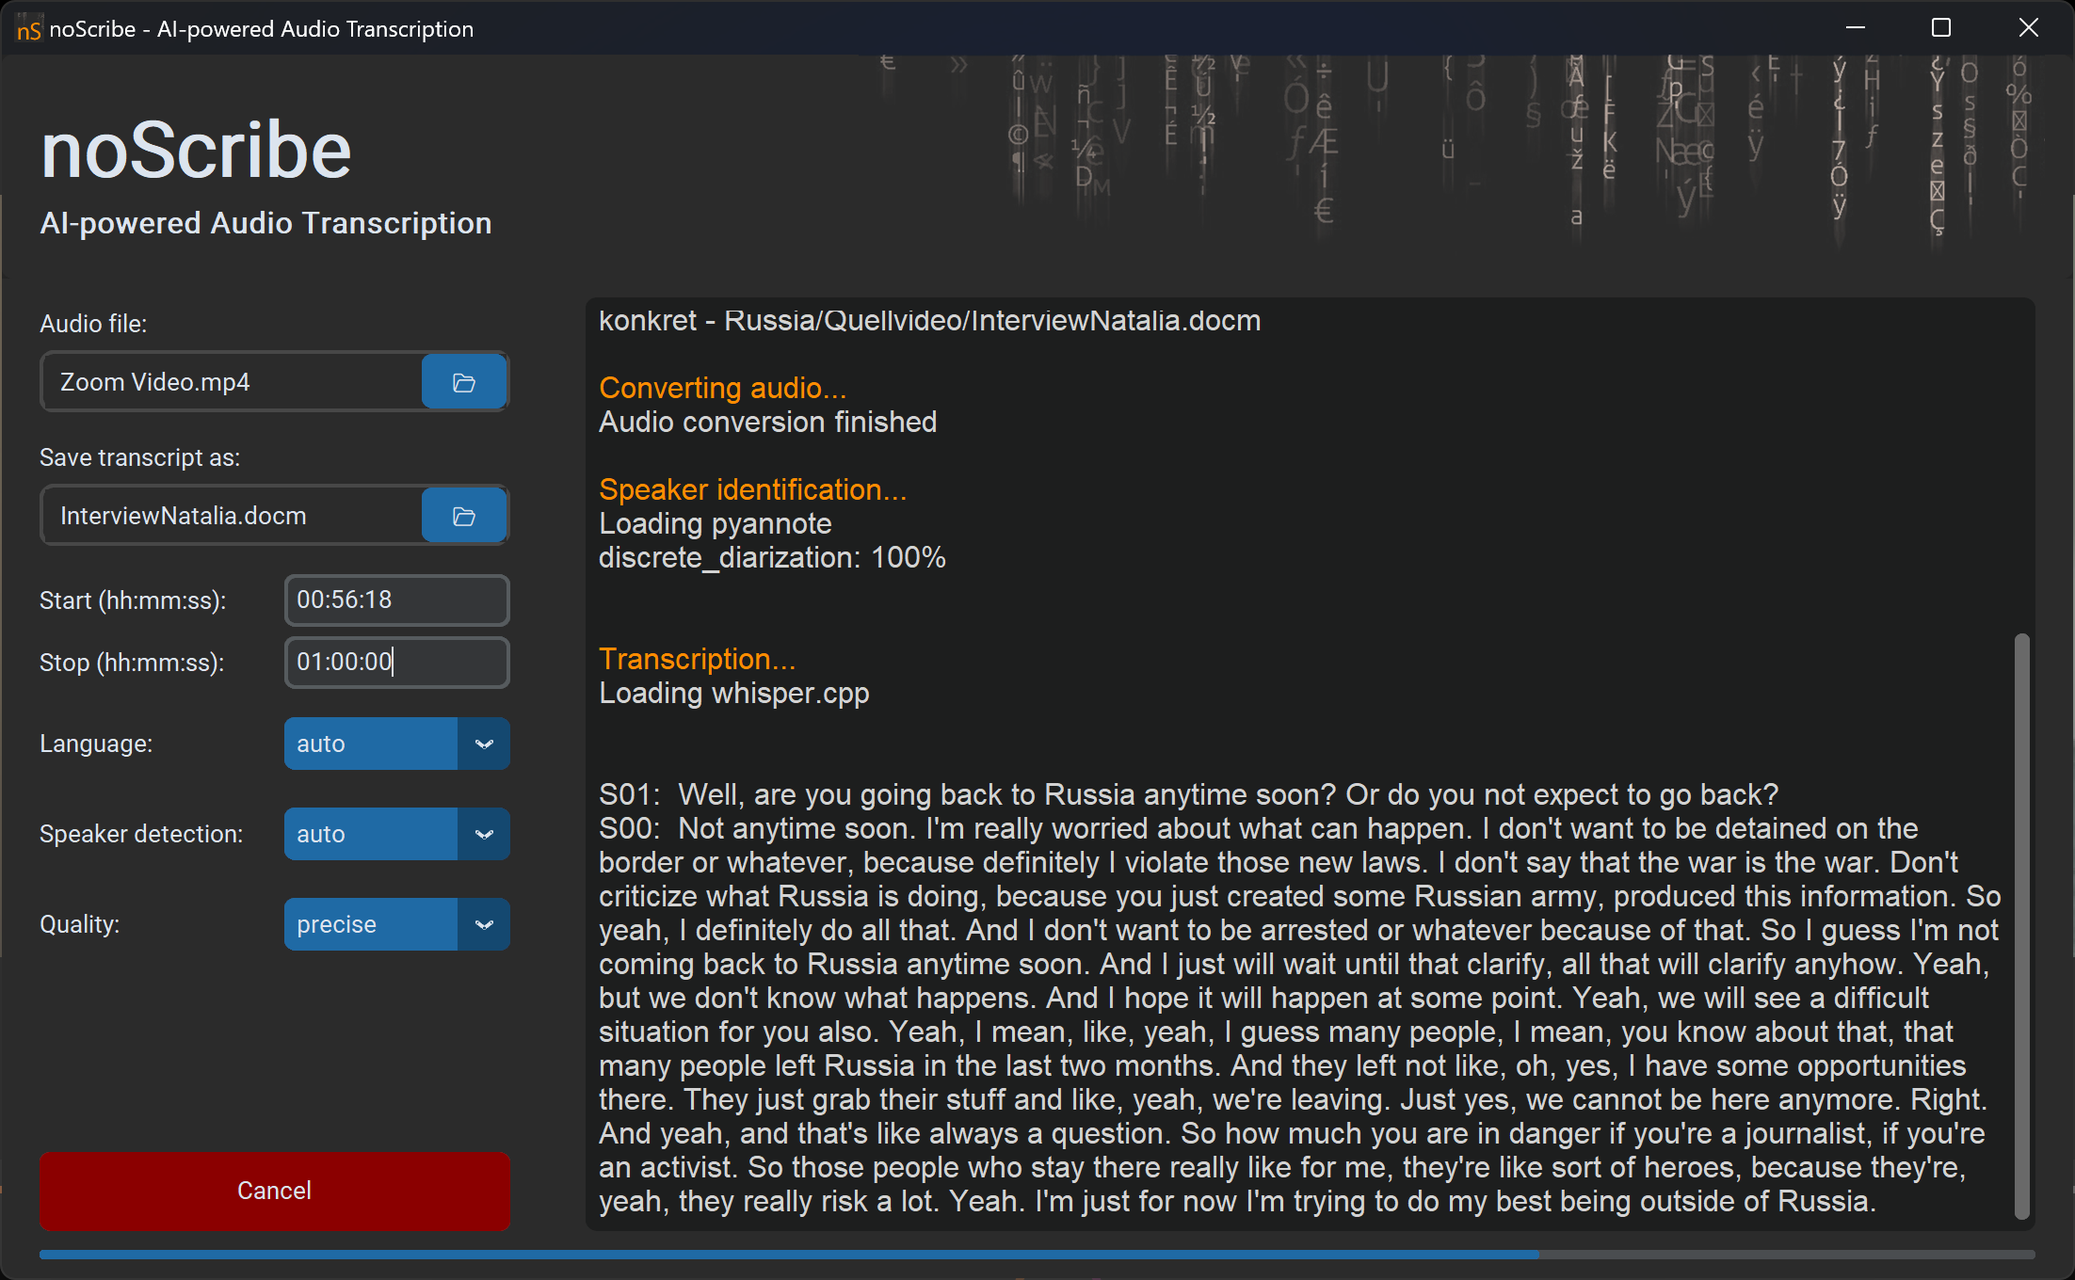
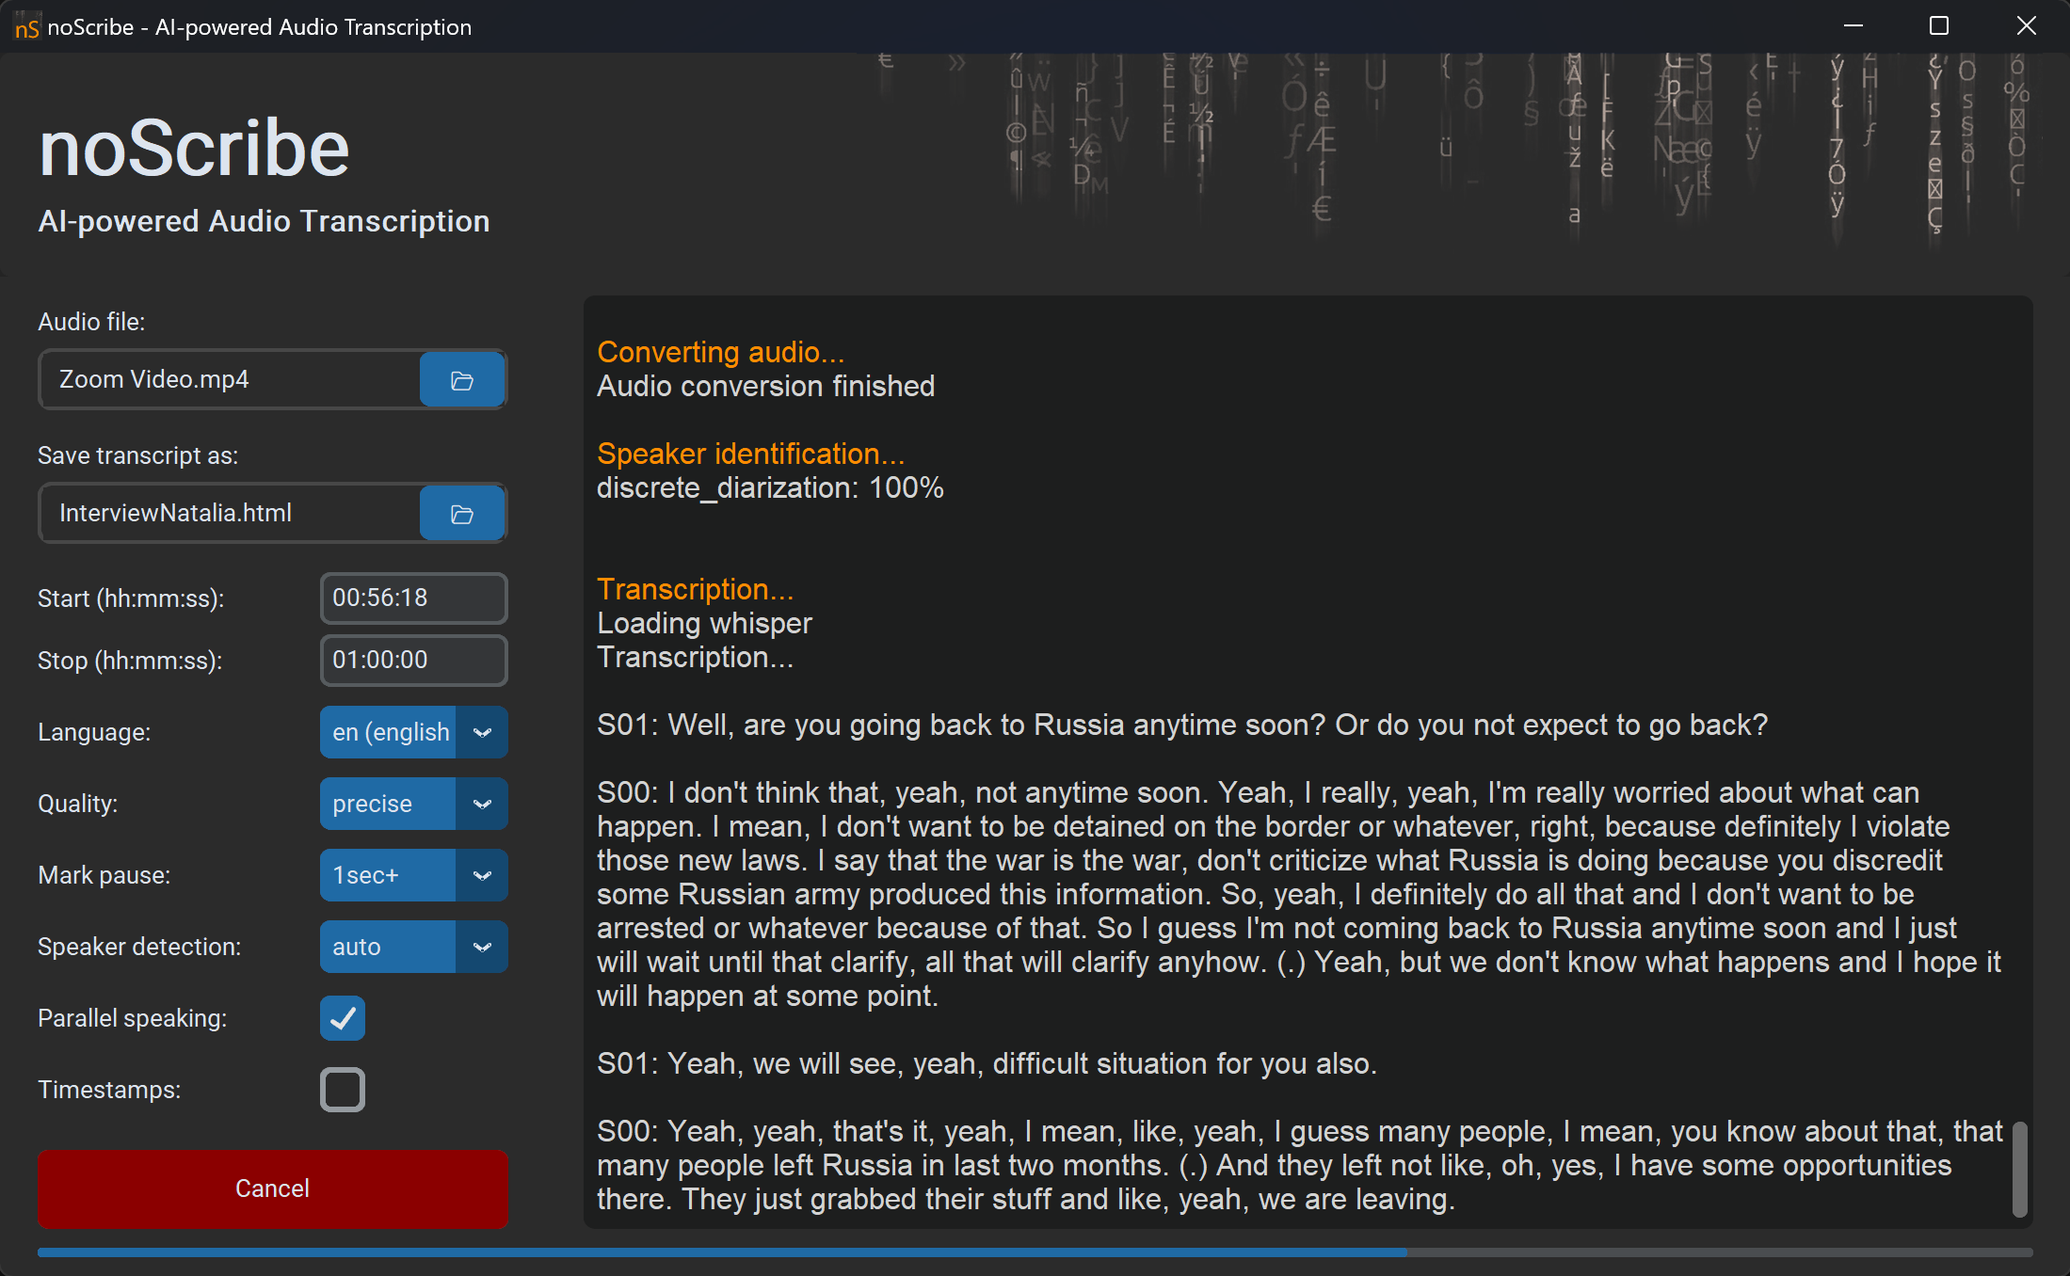
Updated Readme v0_4

diff --git a/README.md b/README.md
@@ -1,28 +1,28 @@
 # noScribe 
 ## Cutting Edge AI Technology for Automated Audio Transcription
 
-**Download** current release (0.3):\
+**Download** current release (0.4):\
 [Windows](https://drive.switch.ch/index.php/s/EIVup04qkSHb54j?path=%2FnoScribe%20vers.%200.3%2FWindows)\
 [macOS](https://drive.switch.ch/index.php/s/EIVup04qkSHb54j?path=%2FnoScribe%20vers.%200.3%2FmacOS) (alpha version, Apple silicon M1/M2 only, ported by [gernophil](https://github.com/gernophil))
 
 ## What is noScribe?
 - noScribe is **free and open source** ([GPL-3.0](https://www.gnu.org/licenses/gpl-3.0.html))
-- It runs locally on your computer. **No cloud, no worries**
+- It runs completely local on your computer. No data is sent to the internet. **No cloud, no worries**
 - Its main purpose is to **transcribe interviews** for qualitative research or journalistic use
 - It can distinguish different **speakers** and understands 99 languages (more or less, see below)
-- It includes a **nice MS Word-interface** to review, verify and correct the resulting transcript
-- It is standing on the shoulders of giants: [Whisper from OpenAI](https://github.com/openai/whisper), [Whisper.cpp by Georgi Gerganov](https://github.com/ggerganov/whisper.cpp) and [pyannote from Hervé Bredin](https://github.com/pyannote/pyannote-audio)
+- It includes a **nice editor** to review, verify and correct the resulting transcript
+- It is standing on the shoulders of giants: [Whisper from OpenAI](https://github.com/openai/whisper), [faster-whisper by Guillaume Klein](https://github.com/guillaumekln/faster-whisper) and [pyannote from Hervé Bredin](https://github.com/pyannote/pyannote-audio)
 
 
 
 ![Main window](img/noScribe_main_window.png)
-(The transcript is from [this interview](https://www.youtube.com/watch?v=vOwajAbvPzQ&t=2018s) I did in May 2022 with the Russian sociologist Natalia Savelyeva.)
+(The transcript is from [this interview](https://www.youtube.com/watch?v=vOwajAbvPzQ&t=2018s) which I did in May 2022 with the Russian sociologist Natalia Savelyeva.)
 
 ## Limitations 
 - noScribe needs a fairly up-to-date computer, or the transcription will take forever. (Consider letting it run over night on a slower machine.)
 - Since it uses sophisticated AI models, the download is quite large – about 3.7 GB
 - Poor audio quality will lead to poor transcription results. 
-- No automatic transcription is perfect, there will always be some manual revision necessary. Use the included Word-interface to check your transcripts thouroughly. (See also ["Factors Influencing the Quality"](#factors-influencing-the-quality-of-the-transcription) and ["Known Issues"](#known-issues) below.)
+- No automatic transcription is perfect, there will always be some manual revision necessary. Use the included Editor to check your transcripts thouroughly. (See also ["Factors Influencing the Quality"](#factors-influencing-the-quality-of-the-transcription) and ["Known Issues"](#known-issues) below.)
 
 ## Why the Name "noScribe"?
 The [urban dictionary](https://www.urbandictionary.com/define.php?term=Scribe) defines **scribe** as *"a person whose entire miserable existence has been reduced to academic grunge and pain".* I hope this software will make your academic life a little less painful and grungy, hence the name noScribe :)
@@ -41,60 +41,69 @@ The [urban dictionary](https://www.urbandictionary.com/define.php?term=Scribe) d
 - Select your **audio file** and a **filename for the transcript.**
 - **Start** and **Stop** accept timestamps in the format hh:mm:ss. Use this to limit the transcription to a particular part of the recording. This is especially helpful to test your settings with a small sample before committing to transcribe the whole interview, which may take several hours. Leave Stop empty if you want to transcribe till the end of the audio file.
 - **Language:** choose the language of your transcript or leave it on "auto"
-- **Speaker detection:** "auto" will use the pyannote AI model to detect different speakers in your audio and structure the transcript accordingly. Setting this to "none" will skip this step and save you about half the time of the whole process. But the resulting transcript will be a continuous text without any information about speaker changes. 
 - **Quality:** "precise" is the recommended setting and will give you the most accurate transcript. On a slower machine, you can also try the "fast" option. This will be much quicker but requires more manual revision afterwards. 
+- **Mark pause**: If enabled, parts of your audio with no voice activity will be marked as pauses. Pauses are transcribed as round brackets with one dot per second inside, i.e., "(..)" for "two seconds pause". Pauses longer then 10 seconds are written out as "(XX seconds pause)" or "(XX minutes pause)". You have the option to mark either pauses of one second and more ("1sec+"), two seconds and more ("2sec+"), or only the longer ones of three seconds and more ("3sec+"). Choose "none" to disable this feature entirely.
+- **Speaker detection:** "auto" will use the pyannote AI model to detect different speakers in your audio and structure the transcript accordingly. Setting this to "none" will skip this step and save you about half the time of the whole process. But the resulting transcript will be a continuous text without any information about speaker changes. 
+- **Overlapping speech**: If enabled, noScribe tries to mark when two people speak at the same time. The overlapping portion is enclosed in //double slashes//. (This is an experimental feature which may or may not work in some instances.)
+- **Timestamps**: If enabled, noScribe will include timestamps in the format [hh:mm:ss] into the transcript at any speaker change or every 60 seconds. I find these timestamps a little distracting, so I have disabled them by default. But they can be helpful in certain applications. Even with disabled timestamps, it is quite easy to find out the audio timecode for a certain segment: Just open the transcript in the noScribe Editor, move the cursor through the text and you will see the corresponding timecode in the bottom right corner of the app. 
+
+### Transcription process
 - If you are ready, click the **Start**-button in the bottom left. **Cancel** will abort the process. 
 - Be aware that **a one-hour interview can take two to five hours processing time** and will put a heavy load on your machine. Doing this on battery-power is not recommended.
 - A **progress bar** at the bottom of the app will show how far you are into the whole process. 
-- The **main window** will log progress-messages and errors. It will also show you the text of your interview during the last step of the transcription. 
+- The **main window** will log progress-messages and errors. It will also show the text of your interview during the last step of the transcription. 
 - The transcript will be auto saved every few seconds under the given filename.
+- NoScribe produces an HTML-file. This can be opened in every common word editor (including MS Word, LibreOffice). 
+- Before working with the transcript though, you should check it with the included Editor. There will always be some errors. Click on the filename in the progress window (blue + underlined) to edit the file. 
 
-### Revising the Transcript in MS Word 
 
-![The transcript in MS Word](img/noScribe_Word.png)
+### noScribeEdit: Included Editor to check the final transcript 
 
-The document produced by noScribe will contain some helpful macros to work with your transcript.
-- Open the document in MS Word and allow for the **active content** (the macros) in the yellow security warning at the top.
-- Press **Ctrl + Spacebar** to hear the audio corresponding to your current position in the text. 
-- The **selection of the text will follow the audio that you hear**. If you want to **make changes,** click anywhere in the text with your mouse or use the arrow keys to move the cursor. The audio will stop, and you can edit your text.
-- You can also stop the audio by pressing **Ctrl + Spacebar** again.
-- **Reliability:** Whisper marks every segment of the transcript with a so called 'confidence level' (CL), reaching from 0-10. A low CL means that the transcription is less reliable and might contain errors. You can highlight these unreliable segments in your document in red. Press **Alt + r** (for reliability) and enter a CL value in the dialog box (3 is a good starting point). Every segment with this or a lower CL is now marked. Enter a CL of 0 to make all markings disappear (the default setting).
+![The transcript in the noScribe Editor](img/noScribe_Editor.png)
+
+The noScribe Editor is a separate app that can also be run independent from noScribe. It contains some handy features to check your finished transcript for errors and correct them:
+- Press **Ctrl + Spacebar** or the **orange button in the toolbar** to hear the audio which corresponds to your current position in the text. 
+- The **selection of the text will follow the audio that you hear**. If you want to **make changes,** click anywhere in the text with your mouse or use the arrow keys to move the cursor. The audio will stop, and you can edit the text.
+- You can also **stop the audio** by pressing Ctrl + Spacebar again or clicking the orange Button.
+- If you want to **speed up or slow down the audio**, change the "100%"-field next to the "Play/Pause Audio"-Button to the appropriate speed.
+- Use the loupe in the toolbar to **zoom in or out**
+- You will find the **most common features of a basic text editor** in the toolbar as well as in the menu at the top (basic text formatting, cut, copy & paste, undo & redo).
+- Your typical **hotkeys** will also work (i.e., Ctrl+S for Save). You can see all the hotkeys if you open the menu. As already mentioned, 'Ctrl+Space' is the important noScribe hotkey to start or pause the audio. 
 
 ## Factors Influencing the Quality of the Transcription
 - A **good audio recording with clear voices and no ambient noise** is crucial for a high-quality transcription. Investing some effort in the quality of the recording will save you much time in the manual revision process later. 
 - Whisper (the AI powering noScribe) understands 99 different languages, but the quality of the transcription varies widely between them. **Spanish, Italian, English, Portuguese and German** are best supported (see [here for more info]( https://github.com/openai/whisper#available-models-and-languages)).
 - Whisper handles **dialects** fairly well (i.e., Swiss-German), but the transcript might need more manual work in the revision.
-- **Multilingual audio** is not supported. If the language changes mid interview, whisper will actually try to translate the text, which is usually not what we want.
-- **Quick back and forth between different speakers** is not always handled well. Some statements might get attributed to the wrong speaker, which must be corrected in the revision phase. The same is true for **speaker overlap/parallel speaking.**
-- **Speech dysfluencies** like "uhm", short interruptions or **nonverbal expressions** like laughter are usually not included in the transcript, although they might be required for a good qualitative analysis. You must add these elements manually using the functions in Word described above. (You can also play with the "prompt"-option described under "advanced options" below, but I had limited success.)
-- The whisper AI can sometimes **hallucinate**, especially in silent parts of the recording when it interprets background noise as 'text'. Check your transcripts carefully. 
 
 ## Known Issues
 - The whisper AI can sometimes get **stuck in a loop of repeating text,** especially on longer audio files. If this happens, try to transcribe shorter sections (using the "Start" and "Stop" fields in noScribe), and join them manually.
+- **Multilingual audio** is not supported. If the language changes mid interview, whisper will actually try to translate the text, which is usually not what we want.
+- **Filler words** like "uhm" and especially **nonverbal expressions** like laughter are often not included in the transcript, although they are usually required for a good qualitative analysis. You must add these elements manually. (The identification of filler words works best if you select the correct language for the transcript, not "auto".) 
+- **Speaker identification:** In some recordings, the AI used by noScribe may not be able to tell the voices of certain speakers apart, even if they sound quite different to the human ear. It may also happen that noScribe identifies more speakers in a recording then there actually are. Check the results carefully.
+- The whisper AI can sometimes **hallucinate**, especially in silent parts of the recording when it interprets background noise as 'text'. Check your transcripts carefully. 
 
 ## Advanced Options
-- **Prompts**: The whisper AI can be initialized with a short text-sequence called prompt (see [here for more info](https://platform.openai.com/docs/guides/speech-to-text/prompting)). This will influence the style of the following transcription. I tried to force the AI to include filler words like "uhm" in the transcription by giving it a prompt containing them (like "Umm, let me think like, hmm..."). But this only worked on some occasions (whisper tends to 'forget' the prompt quite quickly). Prompts are language specific and will only be applied if you select a particular language (not 'auto'). You can change or add prompts for other languages in the file "prompt.yml" in the home directory of the app.
-- After the app has been closed for the first time, you will find a file named **config.yml** in the user config directory (on windows: C:\Users\<username>\AppData\Local\noScribe\noScribe\config.yml). Here, you can change a few **extra settings,** i.e., the language of the user interface.
-- "whisper_extra_commands" can be defined in config.yml and will be attached to the end of the command line for whisper.cpp. Use this to experiment with advanced options. See https://github.com/ggerganov/whisper.cpp/tree/master/examples/main for a list of options. Be careful: If your options change the output of main.exe in the terminal, noScribe might not be able to interpret this and fail badly...
+- After the app has run for the first time, you will find a file named **config.yml** in the user config directory (on windows: C:\Users\<username>\AppData\Local\noScribe\noScribe\config.yml). Here, you can change a few **extra settings,** i.e., the language of the user interface.
+- **Prompts**: The whisper AI can be initialized with a short text-sequence called prompt (see [here for more info](https://platform.openai.com/docs/guides/speech-to-text/prompting)). This will influence the style of the following transcription. I tried to force the AI to include filler words like "uhm" in the transcription by giving it a prompt containing them (like "Umm, let me think like, hmm."). But this only worked on some occasions (whisper tends to 'forget' the prompt quite quickly). Prompts are language specific and will only be applied if you select a particular language (not 'auto'). You can change or add prompts for other languages in the file "prompt.yml" in the home directory of the app. Please don’t use prompts longer than one sentence since this will mess up the speaker separation.
 - Also in the user config directory you will find a folder named **log** with detailed log-files for every transcript (also unfinished ones). This can be helpful in the case of any errors. Be aware though that these files also contain the text of your transcripts which might include sensitive information. 
 
 ## Development and Contribution
 - I developed noScribe in python 3.9
 - If you want to run noScribe directly from the source, I recommend setting up pyannote and all its dependencies first. You **must use my fork of pyannote,** which includes a small modification run on local files only.
-- Also use my fork of python-docx. Again, I had to make a very small change so python-docx accepts also documents with macros (.docm).    
-- Downloading whisper/whisper.cpp is not necessary since I use the compiled version of whisper.cpp ("main.exe").
+- I cannot host the whisper-models on GitHub because they are too large. There is a readme in the models-folder with instructions on how to get them. 
 - I am happy to review tests, bug reports and pull requests (if my time allows it)
 
 ### Translations
-- It would be great to see noScribe being translated into more languages. 
-- You will find the language files in the folder "trans". Copy "noScribe.en.yml" (the English version, usually most complete) and translate it. 
-- Make sure you follow the conventions of the YAML language.
-- Your new language should be picked up automatically once you restart noScribe. You can also change your default language in the advanced settings (see above).
+- The noScribe UI has already been translated into many languages (thanks mlynar-czyk).
+- Since most of the translations have been created with ChatGPT, there will be problems. Please report any errors that you’ll find and make – if possible – a pull request with a better translation. 
+- You will find the language files in the folder "trans". 
+- If you change anything in the language files, make sure to follow the conventions of the YAML language.
+- If you want to change the language of the user interface, you have to change the value of the "locale" setting in the advanced settings (see above).
 
 ### MAC and LINUX support
 - noScribe has been ported to macOS by [gernophil](https://github.com/gernophil): (https://drive.switch.ch/index.php/s/EIVup04qkSHb54j?path=%2FnoScribe%20vers.%200.3%2FmacOS) (alpha version, Apple silicon M1/M2 only) 
-- A version for LINUX is in preparation.
-- If you make any changes to the code of noScribe.py, try not to break compatibility with other platforms. I would like to keep one single codebase for all platforms.
+- If you want to port noScribe to Linux, go ahead! There once was a working version but it is no longer up to date.
+- If you make any changes to the code of noScribe, try not to break compatibility with other platforms. I would like to keep one single codebase for all platforms.
 
 ## Other Software
 If you are interested in open source software for the analysis of qualitative data, take a look at [QualCoder](https://github.com/ccbogel/QualCoder) and [Taguette](https://www.taguette.org/).
